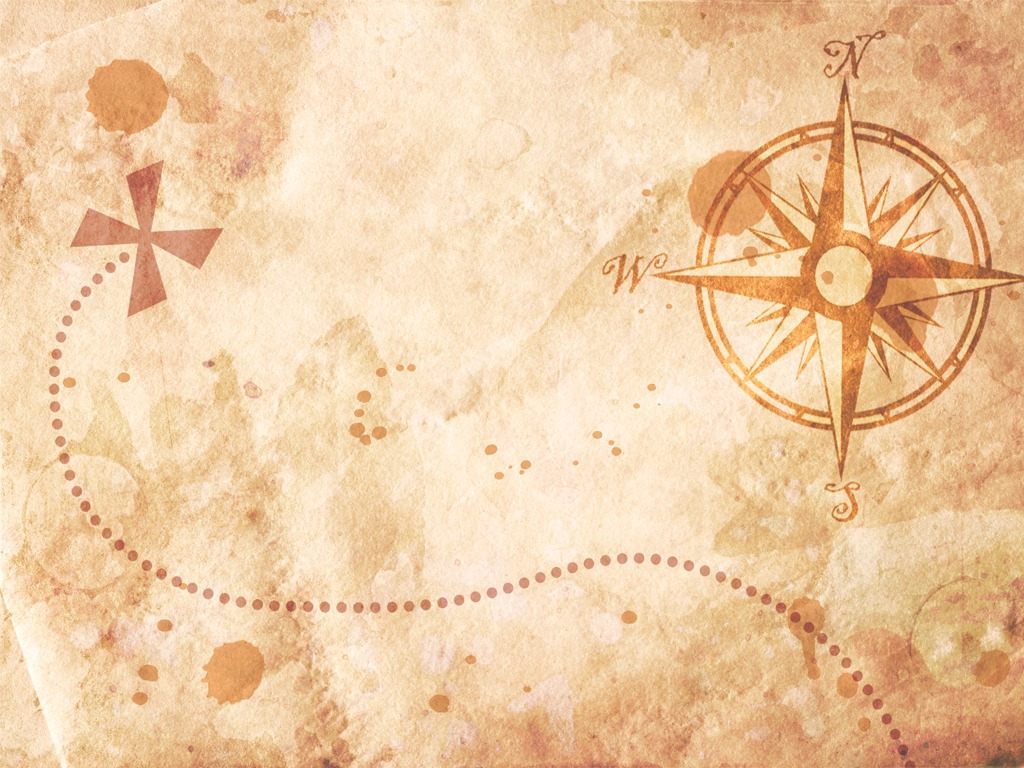
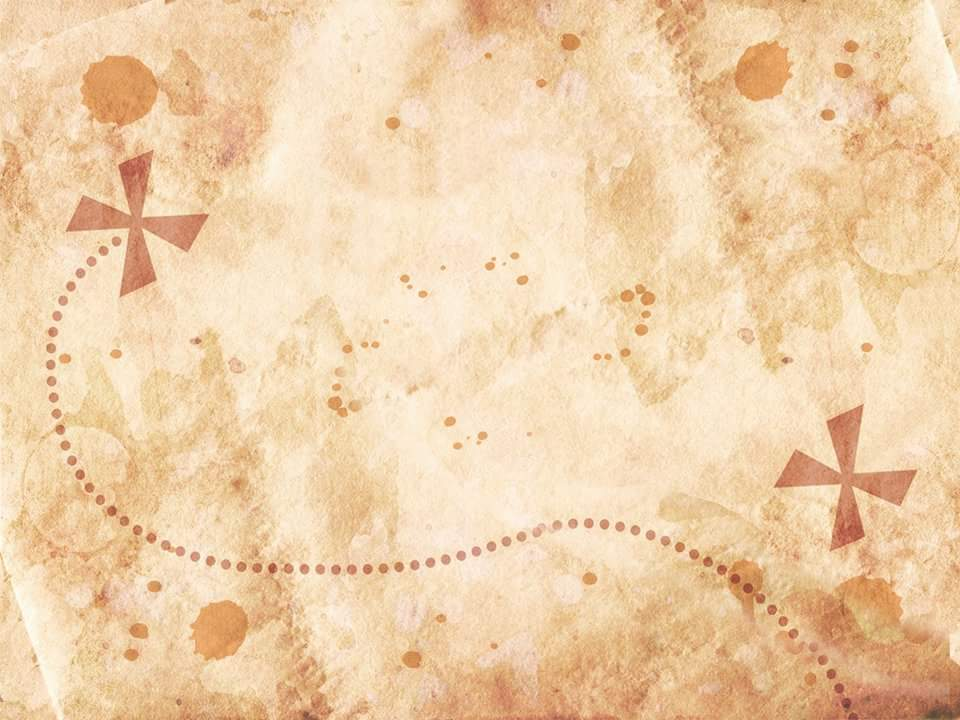
se mejoro el interfaz de los menus y se cocrrije los desafios

diff --git a/escenas/modoJuego.py b/escenas/modoJuego.py
@@ -9,19 +9,22 @@ from sonido import Sonido
 class ModoJuego(pilasengine.escenas.Escena):
 
     def iniciar(self, pilas, datos=None):
-        self.fondo = pilas.fondos.FondoMozaico("imagenes/fondo/madera.jpg")
+        marronClaro = pilas.colores.Color(128, 84, 66)
+        marronOscuro = pilas.colores.Color(77, 38, 22)
+        self.fondo = pilas.fondos.FondoMozaico("imagenes/fondo/fondoJuego.jpg")
         self.decir = tts
         self.datos=datos
         opciones = self.listaOpciones()
-        self.menu = Menu(pilas,y = 70, opciones = opciones)
+        self.menu = Menu(pilas,y = 150, opciones = opciones,fuente= "datos/tipografia/anirb___.ttf", color_normal=marronOscuro,color_resaltado=marronClaro)
         self.menu.seleccionaOpcion.conectar(self.seleccionarItem)
         self.menu.activaOpcion.conectar(self.activarOpcion)
         self.decir(u"Modo juego: pulse las flechas para elegir un modo de juego.", False)
         self.sonidoMover = Sonido("audio/menu_opcion.ogg")
         self.sonidoAbrir = Sonido("audio/menu_abrir.ogg")
         self.sonidoAbrir.reproducir()
-        self.menu.x = -200
-        self.texto = pilas.actores.Texto("", x= 90 ,y=25, ancho=350 , magnitud= 17, fuente= "datos/tipografia/KaushanScript-Regular.otf")
+        self.menu.x = -300
+        self.texto = pilas.actores.Texto("", x= 90 ,y=25, ancho=350 , magnitud= 17, fuente= "datos/tipografia/al.ttf")
+        self.texto.color = marronOscuro
         self.pilas.eventos.pulsa_tecla_escape.conectar(self.activar_menu_principal)
 
     def activar_menu_principal(self, evento):

diff --git a/actores/menu.py b/actores/menu.py
@@ -15,7 +15,7 @@ class Menu(Actor):
         self.iconos_de_opciones = []
         self.imagen = "invisible.png"
         self._verificar_opciones(opciones)
-        self.crear_texto_de_las_opciones(opciones, fuente, self.pilas.colores.negro, color_resaltado)
+        self.crear_texto_de_las_opciones(opciones, fuente, color_normal , color_resaltado)
         self.opciones = opciones
         self.seleccionar_primer_opcion()
         self.opcion_actual = 0

diff --git a/escenas/pantallaJuego.py b/escenas/pantallaJuego.py
@@ -13,7 +13,7 @@ from sonido import Sonido
 class PantallaJuego(pilasengine.escenas.Escena):
 
     def iniciar(self, pilas, datos=None):
-        self.fondo = pilas.fondos.FondoMozaico("imagenes/fondo/madera.jpg")
+        self.fondo = pilas.fondos.FondoMozaico("imagenes/fondo/fondoJuego.jpg")
         self.decir = tts
         self.partida = Partida(pilas, datos)
         self.partida.definir_reglas(pilas.datos.modoJuego)

diff --git a/reglas/puzzleAjedrez.py b/reglas/puzzleAjedrez.py
@@ -5,7 +5,7 @@ from sonido import Sonido
 class PuzzleAjedrez(Reglas):
 
     def __init__(self, *args, **kwargs):
-        Reglas.__init__(self, *args, **kwargs)
+        Reglas.__init__(self, True, *args, **kwargs)
         self.personalizado=True
         self.sonido_revote = Sonido("audio/boing.ogg")
 
